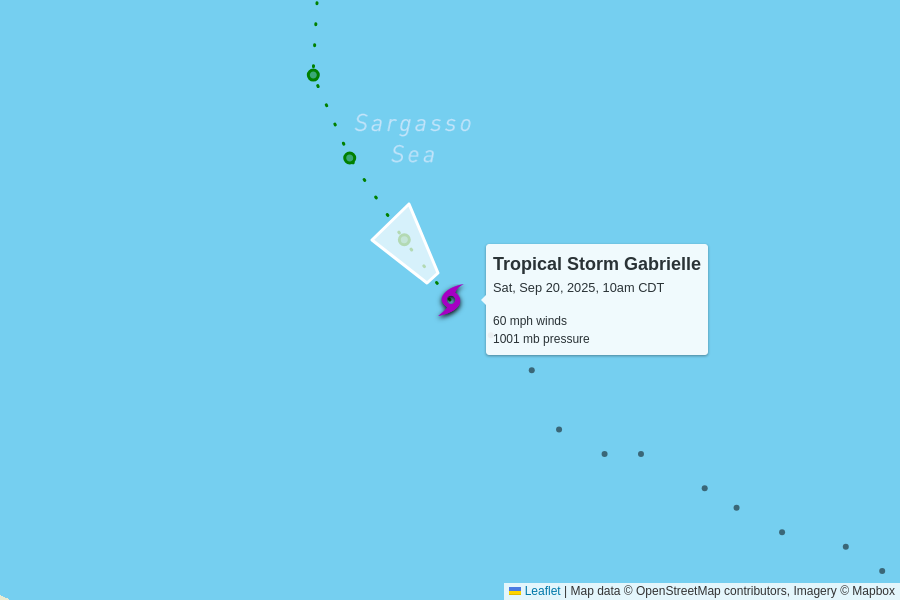
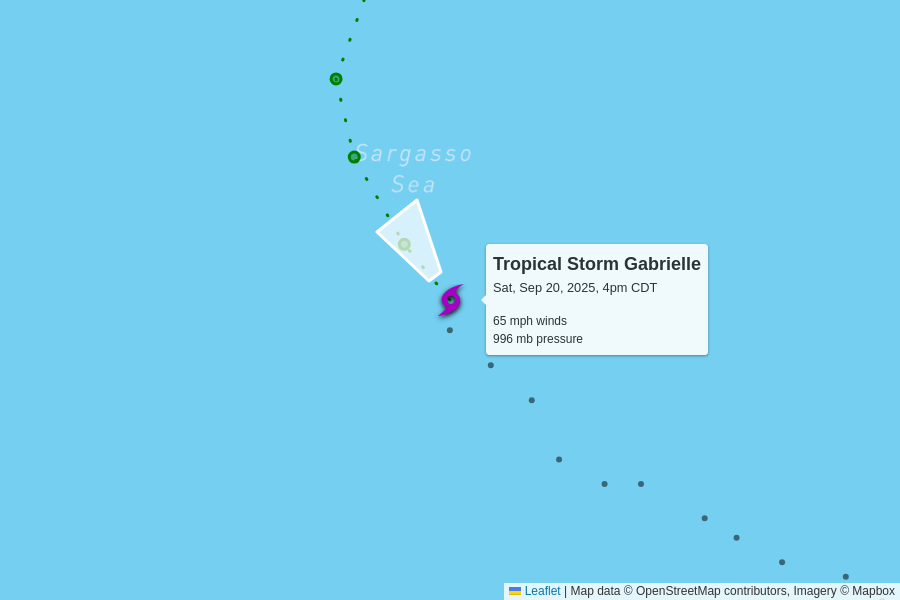
automatic update

diff --git a/docs/index.html b/docs/index.html
@@ -102,7 +102,7 @@
         <td colspan="6" class="storm category-0" >
           <h2>
             Tropical Storm Gabrielle
-            <p class="updated">last updated <span data-time>2025-09-20T15:00:00.000Z</span></p>
+            <p class="updated">last updated <span data-time>2025-09-20T21:00:00.000Z</span></p>
           </h2>
         </td>
       </tr>
@@ -117,12 +117,12 @@
       </tr>
       <tr>
         <td class="spacer"></td>
-        <td>60 mph<br>+10 mph since last update</td>
-        <td>1001 mb<br>-3 mb since last update</td>
+        <td>65 mph<br>+5 mph since last update</td>
+        <td>996 mb<br>-5 mb since last update</td>
         <td>
-          13 mph to the northwest
+          10 mph to the northwest
           <br/>
-          <span style="display: inline-block; font-size: 1.5em; transform: rotate(320deg);">↑</span>
+          <span style="display: inline-block; font-size: 1.5em; transform: rotate(325deg);">↑</span>
         </td>
         <td><a href="https://raw.githubusercontent.com/mgwalker/atlantic-hurricanes/main/data/csv/AL072025.csv">AL072025.csv</a></td>
         <td><a href="https://www.nhc.noaa.gov/archive/2025/GABRIELLE.shtml?">NHC advisories</a></td>
